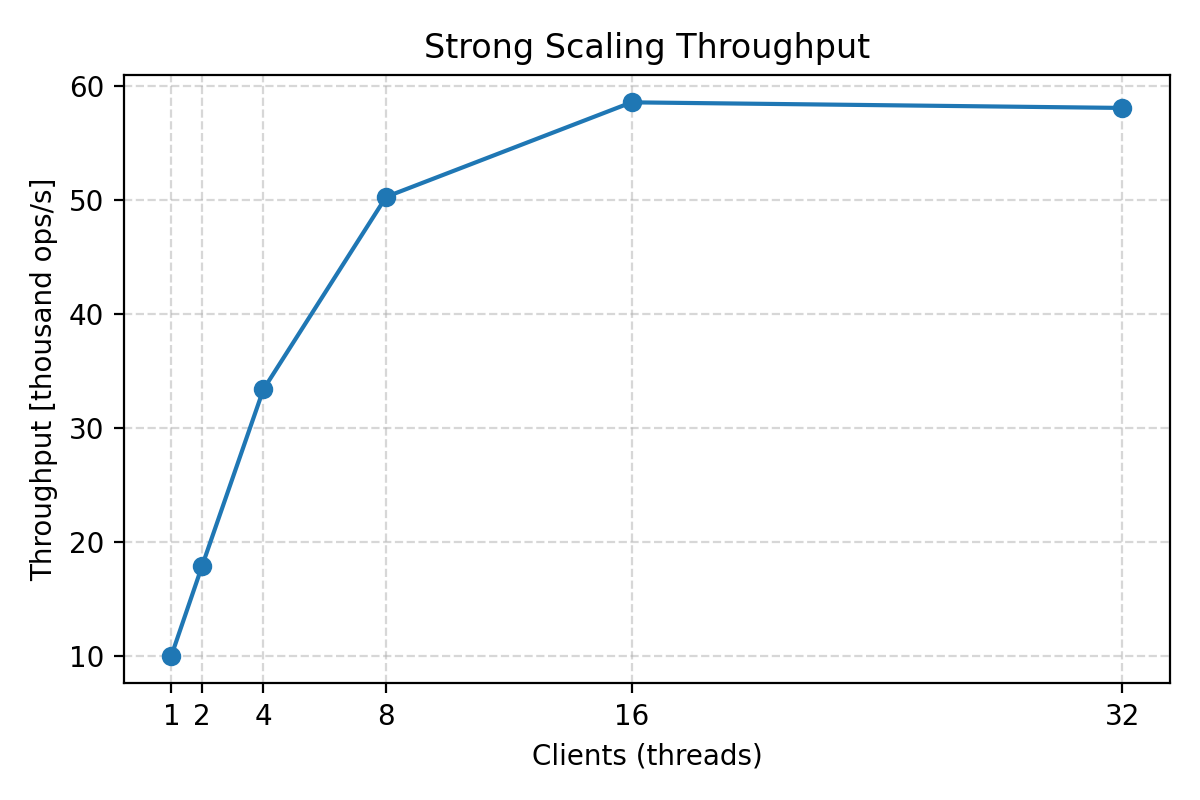
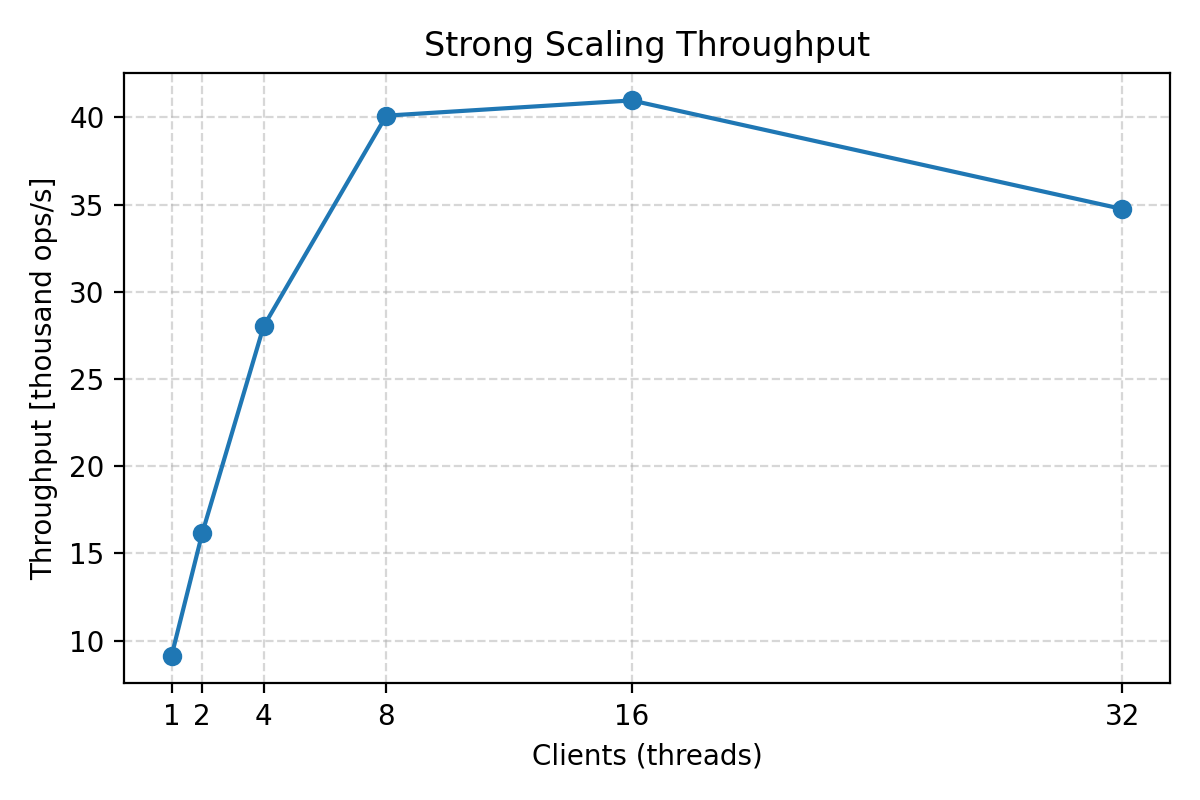
feat: new data, new plots

diff --git a/scripts/generate_plots.py b/scripts/generate_plots.py
@@ -30,7 +30,13 @@ def _load_data() -> Tuple[list[dict], list[dict]]:
 
 
 def _compute_strong_metrics(entries: Iterable[dict]) -> dict[str, np.ndarray]:
-    entries = list(entries)
+    """
+    Strong scaling:
+      Throughput = totalSize / time
+      Speedup S_strong(p) = T1(N) / Tp(N) = throughput(p) / throughput(1)
+      Efficiency E_strong(p) = S_strong(p) / p
+    """
+    entries = sorted(list(entries), key=lambda x: x["executedThreads"])
     threads = np.array([item["executedThreads"] for item in entries], dtype=int)
     workload = np.array([item["totalSize"] for item in entries], dtype=float)
     duration_sec = np.array([item["avgTimeMillis"] for item in entries], dtype=float) / 1000.0
@@ -49,22 +55,38 @@ def _compute_strong_metrics(entries: Iterable[dict]) -> dict[str, np.ndarray]:
 
 
 def _compute_weak_metrics(entries: Iterable[dict]) -> dict[str, np.ndarray]:
-    entries = list(entries)
+    """
+    Weak scaling (fixed):
+      Efficiency E_weak(p) = T1(N) / Tp(pN)
+      Scaled speedup S_scaled(p) ≈ p * E_weak(p)
+      (We also compute total throughput for plotting, but 'speedup' returned here is the scaled speedup.)
+    """
+    entries = sorted(list(entries), key=lambda x: x["executedThreads"])
     threads = np.array([item["executedThreads"] for item in entries], dtype=int)
+
+    # Per-thread work N (at p=1) and total work pN for each entry
     per_thread_work = np.array([item["dataSize"] for item in entries], dtype=float)
     total_work = per_thread_work * threads
+
+    # Durations
     duration_sec = np.array([item["avgTimeMillis"] for item in entries], dtype=float) / 1000.0
 
+    # Throughput of total work (useful to visualize), but DON'T use this to derive weak efficiency
     throughput = total_work / duration_sec
-    baseline = throughput[0]
-    speedup = throughput / baseline
-    efficiency = speedup / threads
+
+    # Baseline T1(N) from p=1 run
+    T1N = duration_sec[0]
+
+    # Correct weak metrics
+    weak_efficiency = T1N / duration_sec                     # E_weak(p) = T1(N) / Tp(pN)
+    scaled_speedup = threads * weak_efficiency               # S_scaled(p) ≈ p * E_weak(p)
 
     return {
         "threads": threads,
         "throughput": throughput,
-        "speedup": speedup,
-        "efficiency": efficiency,
+        # For plotting compatibility, expose scaled speedup under the 'speedup' key
+        "speedup": scaled_speedup,
+        "efficiency": weak_efficiency,
     }
 
 
@@ -92,10 +114,14 @@ def _plot_throughput(threads: np.ndarray, throughput: np.ndarray, title: str, ou
 def _plot_speedup_efficiency(metrics: dict[str, np.ndarray], title_prefix: str, outfile: Path) -> None:
     fig, axes = plt.subplots(nrows=1, ncols=2, figsize=(10, 4))
 
+    # If this is weak scaling (we passed metrics from _compute_weak_metrics),
+    # the 'speedup' is actually scaled speedup. Adjust labels accordingly.
+    is_weak = "Weak" in title_prefix
+
     axes[0].plot(metrics["threads"], metrics["speedup"], marker="o")
     axes[0].set_xlabel("Clients (threads)")
-    axes[0].set_ylabel("Throughput speedup")
-    axes[0].set_title(f"{title_prefix} Speedup")
+    axes[0].set_ylabel("Scaled speedup" if is_weak else "Throughput speedup")
+    axes[0].set_title(f"{title_prefix} {'Scaled Speedup' if is_weak else 'Speedup'}")
     desired_ticks = np.array([1, 2, 4, 8, 16, 32])
     filtered_ticks = desired_ticks[desired_ticks <= metrics["threads"].max()]
     if filtered_ticks.size:
@@ -104,7 +130,7 @@ def _plot_speedup_efficiency(metrics: dict[str, np.ndarray], title_prefix: str, 
 
     axes[1].plot(metrics["threads"], metrics["efficiency"], marker="o")
     axes[1].set_xlabel("Clients (threads)")
-    axes[1].set_ylabel("Parallel efficiency")
+    axes[1].set_ylabel("Parallel efficiency" + (" (weak)" if is_weak else ""))
     axes[1].set_title(f"{title_prefix} Efficiency")
     if filtered_ticks.size:
         axes[1].set_xticks(filtered_ticks.tolist())

diff --git a/README.md b/README.md
@@ -54,25 +54,6 @@ parallel submissions when the total work increases.
 
 ![Weak scaling speedup and efficiency](results/weak_speedup_efficiency.png)
 
-### Why the difference?
-
-The Teaclave Java SDK ([Lejacon](https://ieeexplore.ieee.org/document/10172889)) enclave code as native NCC services inside SGX, while the JVM hosts the untrusted logic. Each interaction crosses the JVM–enclave boundary through a JNI-based ECALL that must:
-
-1. serialize the service arguments and state
-2. enter the enclave
-3. run the NCC service
-4. return and deserialize the results
-
-This transition cost is largely fixed and often dominates the actual compute time of each aggregation update (refer to paper for detailed breakdown).
-
-Under **weak scaling**, increasing the number of clients increases *total* work (= more ECALLs, more data). With more work in flight, Lejacon can reuse the same NCC service instance and route repeated operations through the current service context. This effectively groups multiple logical requests into fewer enclave transitions: data stays cached and the marshalling layer becomes more efficient because the service context does not need to be reloaded for each call. As a result, the per-operation cost of the transition falls, and aggregate throughput can grow linearly.
-
-Under **strong scaling**, the total workload is constant. Additional threads only fragment this work into smaller batches (= more ECALLs, less data). Since batch size shrinks, each thread issues more transitions relative to the useful work it performs. Lejacon cannot group these calls, so the fixed ECALL cost becomes dominant. At higher thread counts, all clients contend for the same enclave execution engine, so SGX scheduling and synchronization overhead quickly saturate the enclave. Throughput therefore scales sub-linearly and eventually plateaus.
-
-> For deeper architectural details, see the original Lejacon paper. This is just
-> a summary of how the observed benchmark results relate to the underlying design
-> of the Teaclave Java SDK.
-
 ### Reproducing the figures
 
 ```
